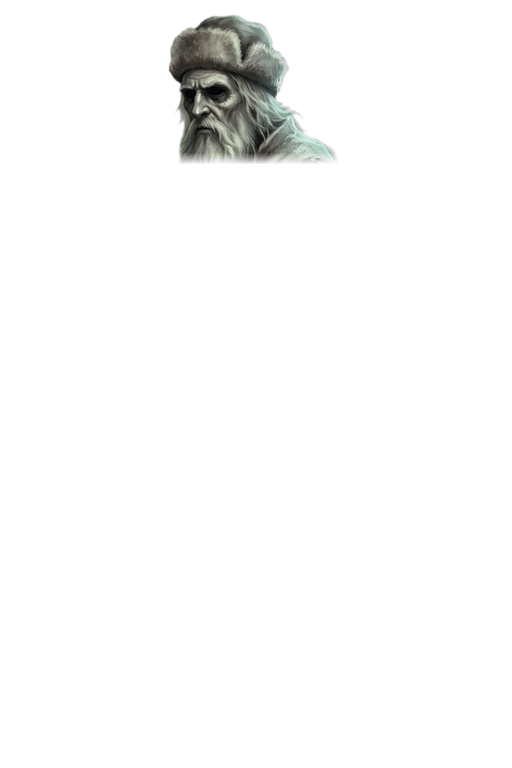
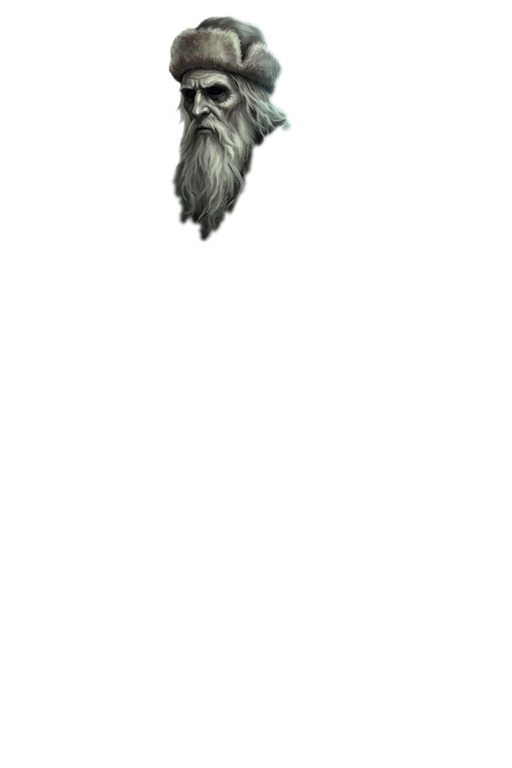
Rig parts and corpses for biryuk, ancestor shade, alkonost and podmenysh repainted in Flow; docs: every speaker's voice and persona, how battle lines were asked through the API and the page and why takes differ by model; Kot Bayun's ground poses' prompts

Changed region(s): [[0.3125, 0.0625, 0.6562, 0.3125], [0.4375, 0.0, 0.5, 0.0312], [0.5, 0.0312, 0.5312, 0.0625]]

diff --git a/crates/game/src/battle/rig.rs b/crates/game/src/battle/rig.rs
@@ -146,14 +146,14 @@ const FIGURES: &[(&str, &[Cut])] = &[
     ("enemies/korochun", &[(Part::Head, Vec2::new(0.496, 0.219), 1.0), (Part::Shield, Vec2::new(0.661, 0.436), 0.8), (Part::Arm, Vec2::new(0.172, 0.202), 1.0)]),
     ("enemies/vodyanoy_tsar", &[(Part::Head, Vec2::new(0.473, 0.405), 1.0), (Part::Shield, Vec2::new(0.657, 0.472), 0.8), (Part::Arm, Vec2::new(0.148, 0.037), 1.0)]),
     // the new wave: one picture each, cut at the neck by tools/foe_rig.py
-    ("enemies/biryuk", &[(Part::Head, Vec2::new(0.37, 0.30), 1.0)]),
-    ("enemies/podmenysh", &[(Part::Head, Vec2::new(0.574, 0.262), 1.0)]),
+    ("enemies/biryuk", &[(Part::Head, Vec2::new(0.44, 0.27), 1.0)]),
+    ("enemies/podmenysh", &[(Part::Head, Vec2::new(0.5, 0.17), 1.0)]),
     ("enemies/polevik", &[(Part::Head, Vec2::new(0.472, 0.245), 1.0)]),
     ("enemies/zhivoglot", &[(Part::Head, Vec2::new(0.566, 0.355), 1.0)]),
     ("enemies/gravedigger", &[(Part::Head, Vec2::new(0.44, 0.17), 1.0)]),
     ("enemies/pugach", &[(Part::Head, Vec2::new(0.33, 0.55), 0.8)]),
     ("enemies/bolotnitsa", &[(Part::Head, Vec2::new(0.467, 0.17), 1.0)]),
-    ("enemies/ancestor_shade", &[(Part::Head, Vec2::new(0.504, 0.206), 1.0)]),
+    ("enemies/ancestor_shade", &[(Part::Head, Vec2::new(0.46, 0.16), 1.0)]),
     ("enemies/nav_hound", &[(Part::Head, Vec2::new(0.33, 0.60), 1.0)]),
     ("enemies/fire_serpent", &[(Part::Head, Vec2::new(0.32, 0.19), 1.0)]),
     ("enemies/tugarin", &[(Part::Head, Vec2::new(0.499, 0.253), 1.0)]),
@@ -165,7 +165,7 @@ const FIGURES: &[(&str, &[Cut])] = &[
     ("enemies/miller", &[(Part::Head, Vec2::new(0.515, 0.19), 1.0)]),
     ("enemies/obderikha", &[(Part::Head, Vec2::new(0.448, 0.16), 1.0)]),
     ("enemies/chernobog_priest", &[(Part::Head, Vec2::new(0.552, 0.19), 1.0)]),
-    ("enemies/alkonost", &[(Part::Head, Vec2::new(0.418, 0.318), 1.0)]),
+    ("enemies/alkonost", &[(Part::Head, Vec2::new(0.28, 0.24), 1.0)]),
     ("enemies/chernobog", &[(Part::Head, Vec2::new(0.601, 0.206), 1.0)]),
     ("enemies/zhlya", &[(Part::Head, Vec2::new(0.467, 0.188), 1.0)]),
     ("enemies/karna", &[(Part::Head, Vec2::new(0.547, 0.16), 1.0)]),

diff --git a/docs/audio_pipeline.md b/docs/audio_pipeline.md
@@ -13,6 +13,65 @@ accent into ru-old: the ru-old style says the speaker is a native Russian with n
 (`STYLE` in `tools/tts_api.py`). Before any mass run with a new voice, model or style, record 2–3
 clips and let the user listen.
 
+The language styles, word for word (added after the speaker's persona from
+`docs/prompts/voice/barks.voices.txt`):
+
+- **ru-old:** "The line is in Old Russian, read in the solemn old manner: every vowel as written,
+  unstressed O stays a round O, E never read as YO; a capital letter inside a word marks its
+  stressed vowel. The speaker is a native Russian: Russian pronunciation through and through, with
+  no English or other foreign accent at all."
+- **ru:** "The line is in plain modern Russian: ordinary present-day pronunciation and natural
+  stress, nothing archaic or churchly."
+- **en:** "The line is in English, spoken by a Slav: a clear, noticeable Russian accent, rolled R,
+  heavy consonants."
+
+### Who speaks: voice and persona of every character
+
+(The same as `docs/prompts/voice/barks.voices.txt`, which the tools read; change both together.)
+
+| who | voice | persona |
+|---|---|---|
+| bogatyr | Alnilam | A huge Slavic warrior knight in battle. Deep, strong, booming chest voice of a man of forty; calm, scornful confidence; short soldier's phrases spoken firmly and loudly. Not theatrical. |
+| vorozheya | Gacrux | A woman: a middle-aged village witch who reads fate in bones and cards. Strictly a female voice, never male. Low, husky, knowing woman's voice; cold and mocking; she speaks in a quiet hiss full of contempt. Not a whisper: every word clear. |
+| volhv | Orus | An old pagan priest of the thunder god in battle. Grave, resonant, commanding elder's voice, slow and solemn as a prayer, with iron under it. |
+| volkolak | Fenrir | A man half turned into a wolf, mid-fight. Rough, hungry, growling voice through bared teeth, panting between words, barely holding back the beast. Every word still understandable. |
+| znaharka | Sulafat | A woman: a kindly but grim old village healer, about seventy. Strictly a female voice, never male. Warm, cracked, folksy grandmother's voice; dry black humour; brisk and practical. |
+| skomoroh | Puck | A wandering Slavic jester and buffoon performing even in battle. Quick, nasal, mocking, theatrical showman's voice; he laughs at death; loud and bright. |
+| emelya | Umbriel | A lazy, sleepy young village fool lying on a warm stove. Slow, drawling, yawning, good-natured voice, thick with sleep; he mumbles and never hurries; even in pain he sounds mostly put out, not afraid. |
+| leshy | Algieba | The ancient forest spirit Leshy. Enormous, slow, creaking, deep voice like an old tree groaning in the wind; inhuman and patient. |
+| bolotnik | Enceladus | The swamp master Bolotnik. Thick, wet, gurgling, drawling voice rising from under black water; slow and hungry. |
+| mara | Kore | A woman: Mara, the goddess of winter and death. Strictly a female voice, never male. Cold, flat, clear, icy woman's voice; utterly calm and merciless; every word like frost. |
+| koschei | Charon | Koschei the Deathless, an ancient skeletal king. Dry, rasping, aristocratic old voice, amused and bored, slow; a voice that has not breathed for a thousand years. |
+
+### How a line was asked, and why two takes of one line can sound different
+
+The full prompt is always **persona + language style + the line**. Two ways were used:
+
+- **Through the API** (`tools/tts_api.py`, most of the takes): one text,
+  `<persona> <style> Say only this line, once, in character: <line>`; the 3.8 models get
+  `## Style:
+<persona> <style>
+
+## Transcript:
+<line>` instead.
+- **On the AI Studio page** (`tools/barkpage.py`, the bogatyr's first takes): the Style box holds
+  `<persona> <style> Speak only the line, once.` (the ru style there adds "The capital letters are
+  only the start of sentences."), the line goes in the speech block alone, model
+  `gemini-3.1-flash-tts-preview`.
+
+The script takes the first model with quota left (`MODELS` in `tools/tts_api.py`:
+gemini-3.1-flash-tts-preview, gemini-3.8-flash-tts, gemini-2.5-pro-preview-tts,
+gemini-2.5-flash-preview-tts, gemini-3.8-flash-lite-tts), so the takes of one speaker were made by
+different models on different days, and each model makes the same voice sound a little different.
+The ru-old style got its last sentence ("The speaker is a native Russian… no foreign accent") on
+2026-11-09; takes made before that lack it. When one take is missing, record it with the model its
+siblings came from and let the user hear it beside them before it goes in.
+
+A battle line is asked as `<persona> <style> Say only this line, once, in character: <line>`; the
+3.8 models take it laid out as `## Style:` / `## Transcript:`. The narrator's scene for each
+language is the comment block at the top of `docs/prompts/voice/story.<lang>.txt`; a page is asked
+as `<scene>` + `Read this aloud, once, exactly as written:` + the text.
+
 ## Narrator (story pages, book secrets, omens)
 
 - Model `gemini-3.1-flash-tts-preview`, speaker **Algenib**, the scene prompt approved by the user

diff --git a/docs/prompts/01_enemies.md b/docs/prompts/01_enemies.md
@@ -209,3 +209,16 @@ Single full-body creature, three-quarter view facing left, feet on the ground ne
 
 Боссы первого и второго актов (Идолище Поганое, Вихорь, Горе-Злосчастье, Злой Домовой), их значки и карта Горе —
 `docs/prompts/plots/bosses2.json`. Соловей, Корочун, Баба-Яга и Водяной царь с тех пор — элиты.
+
+## Kot Bayun off his post (`kot_bayun_ground*`)
+
+While `bayun_perch` is set he is drawn on his post (`kot_bayun`, `_strike`, `_hurt`, `_guard`);
+once he leaps down the game swaps in the `_ground` set. Each was painted in Flow from the resting
+picture attached as the look only (an edit of the perched picture kept the floating perch pose:
+ask for a completely new picture). Keyed with `tools/key_flood.py`, taken in with
+`tools/pose_in.py`.
+
+- `kot_bayun_ground`: Use the attached picture ONLY for what the cat looks like (huge black scarred cat, orange eyes, bristling fur, painted style, lighting). Draw a completely new picture, square 1:1, one single image, no text: the cat STANDING on the ground on all four straight legs, full side view, body horizontal, facing left, back arched and fur raised, head low and snarling at the viewer's left, tail raised high in a curve ABOVE his back. All four paws touch one flat ground line at the bottom of the picture; nothing hangs below the paws. No post, no stump, no rock. The whole cat inside the frame with a margin on every side. Flat solid pure green #00FF00 background, no ground texture, no shadow, no green on the cat.
+- `kot_bayun_ground_strike`: Use the attached picture for what the cat looks like (the SAME huge black scarred cat, orange eyes, same fur, painted style, lighting and size). New pose, square 1:1, one single image, no text: he LUNGES forward to the left, striking with one front paw raised high, claws fully out, mouth wide open in a hiss, hind legs pushing off the ground, body stretched low. No post, no stump. Whole cat inside the frame with a margin on every side, his hind paws near the bottom. Flat solid pure green #00FF00 background, no ground texture, no shadow, no green on the cat.
+- `kot_bayun_ground_hurt`: Use the attached picture for what the cat looks like (the SAME huge black scarred cat, orange eyes, same fur, painted style, lighting and size). New pose, square 1:1, one single image, no text: he has just been struck hard and REELS BACK to the right, away from the blow, head thrown back with eyes squeezed shut and mouth open in a yowl, front paws lifted off the ground, hind legs braced, fur flattened, a little dark blood on his shoulder. No post, no stump. Whole cat inside the frame with a margin on every side, his hind paws near the bottom. Flat solid pure green #00FF00 background, no ground texture, no shadow, no green on the cat.
+- `kot_bayun_ground_guard`: Use the attached picture for what the cat looks like (the SAME huge black scarred cat, orange eyes, same fur, painted style, lighting and size). New pose, square 1:1, one single image, no text: he crouches low and defensive on the ground, facing left, body pressed down and coiled, ears flattened back, fur bristling, one front paw raised before his face to ward off a blow, tail wrapped around his flank. No post, no stump. Whole cat inside the frame with a margin on every side, his paws near the bottom. Flat solid pure green #00FF00 background, no ground texture, no shadow, no green on the cat.
